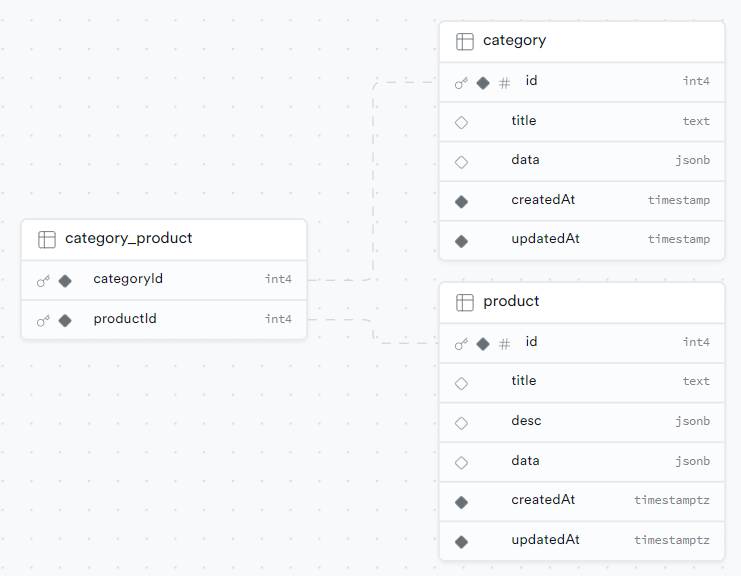
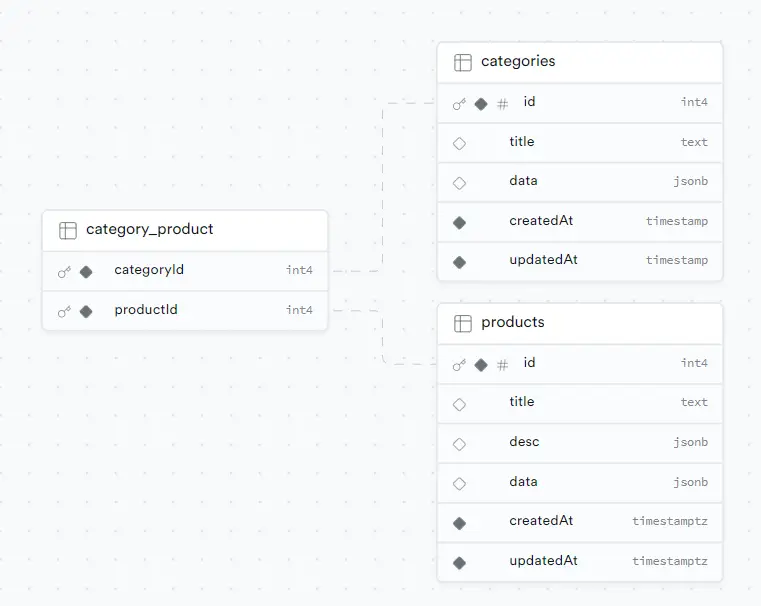
feat(ac): add Supabase integration, data model

diff --git a/docs/.vitepress/config/sidebar.arty-crafty.ru.ts b/docs/.vitepress/config/sidebar.arty-crafty.ru.ts
@@ -46,24 +46,25 @@ export default [
           { text: "Codeium", link: "/ru/arty-crafty/showcase/codeium" },
         ],
       },
-      // {
-      //   text: "Бэкенд и база данных",
-      //   collapsed: false,
-      //   items: [
-      //     { text: "Выбор BaaS", link: "/ru/arty-crafty/backend/baas-choosing" },
-      //     { text: "Supabase", link: "/ru/arty-crafty/backend/supabase" },
-      //     { text: "Модель данных", link: "/ru/arty-crafty/backend/db-data-model" },
-      //     { text: "Supabase API", link: "/ru/arty-crafty/backend/supabase-api" },
-      //     { text: "Hoppscotch", link: "/ru/arty-crafty/backend/hoppscotch" },
-      //   ],
-      // },
-      // {
-      //   text: "Витрина -  данные",
-      //   collapsed: false,
-      //   items: [
-      //     { text: "API сервис адаптер", link: "/ru/arty-crafty/showcase-data/api-service-adapter" },
-      //   ],
-      // },
+      {
+        text: "Бэкенд и база данных",
+        collapsed: false,
+        items: [
+          { text: "Выбор BaaS", link: "/ru/arty-crafty/backend/baas-choosing" },
+          { text: "Supabase", link: "/ru/arty-crafty/backend/supabase" },
+          { text: "Модель данных", link: "/ru/arty-crafty/backend/db-data-model" },
+          { text: "Supabase API", link: "/ru/arty-crafty/backend/supabase-api" },
+          { text: "Hoppscotch", link: "/ru/arty-crafty/backend/hoppscotch" },
+        ],
+      },
+      {
+        text: "Витрина -  данные",
+        collapsed: false,
+        items: [
+          { text: "API сервис адаптер", link: "/ru/arty-crafty/showcase-data/api-service-adapter" },
+          { text: "Мобильное меню, CSS", link: "/ru/arty-crafty/showcase-data/mobile-menu" },
+        ],
+      },
     ],
   },
 ];

diff --git a/docs/ru/arty-crafty/backend/db-data-model.md b/docs/ru/arty-crafty/backend/db-data-model.md
@@ -16,7 +16,7 @@ head:
 
 ## Сущности
 
-На данный момент у нас есть сущности `product` и `category`. Отношение между ними - **many-to-many**. Один продукт может находиться в нескольких категориях (с учетом того, что конкретный магазин маркетплейса тоже можно рассматривать как категорию).
+На данный момент у нас есть сущности `products` и `categories`. Отношение между ними - **many-to-many**. Один продукт может находиться в нескольких категориях (с учетом того, что конкретный магазин маркетплейса тоже можно рассматривать как категорию).
 
 В реляционных базах данных такие отношения делаются отдельной таблицей, которая хранит связи между товарами и категориями.
 
@@ -26,11 +26,11 @@ head:
 
 Исторически название полей в реляционных базах данных должно быть `snake_case`, но современные БД хорошо различают регистр, и поэтому удобно именовать поля так же, как они будут в JavaScript на фронтенде - тогда можно избежать преобразования имен туда-обратно, что зачастую может вылиться в очень немаленький бойлерплейт на бэкенде.
 
-#### Category table
+#### Categories table
 
 ![image](/ru/arty-crafty/assets/images/db-categories-data.webp)
 
-#### Product table
+#### Products table
 
 ![image](/ru/arty-crafty/assets/images/db-products-data.webp)
 
@@ -40,10 +40,10 @@ head:
 
 В классических реляционных базах данных все данные находились в таблицах, большинство полей (колонок таблиц) было либо числом, либо строкой, либо timestamp. Соответственно, для firstName пользователя было своё поле, для lastName - своё. В итоге у Magento, например, свыше 200 таблиц в минимальной версии, и у некоторых таблиц могут быть десятки полей.
 
-JSON поля сильно упрощают работу с данными и таблицами. В нашем случае у `product` есть два json поля - `desc` и `data`. В первом будут храниться данные, которые надо передать на фронтенд при запросе категории товаров (краткая информация по товарам), в `data` - уже полное описание товара для показа на странице товара, включая, например, отзывы пользователей. `data` будет намного больше по объему, чем `desc`. Это позволит делать запросы на бэкенд эффективно.
+JSON поля сильно упрощают работу с данными и таблицами. В нашем случае у `products` есть два json поля - `desc` и `data`. В первом будут храниться данные, которые надо передать на фронтенд при запросе категории товаров (краткая информация по товарам), в `data` - уже полное описание товара для показа на странице товара, включая, например, отзывы пользователей. `data` будет намного больше по объему, чем `desc`. Это позволит делать запросы на бэкенд эффективно.
 
 ## Поиск по json полям
 
 Одно из преимуществ реляционных баз данных - индексация полей и быстрый поиск по ним даже с десятками миллионов записей в таблице.
 
-У нас есть форма поиска на сайте, мы захотим искать по полному описанию товара, который находится в `data` поле таблицы `product`. Это тоже возможно, потому что MySQL, например, по каждому параметру внутри json поля, по которому должен быть поиск, создает дополнительное виртуальное поле в этой таблице, и индексирует его для оптимизации поиска или join-ов. Postgres наверняка делает примерно то же самое.
+У нас есть форма поиска на сайте, мы, естественно, захотим искать по полному описанию товара, который находится в поле `data` таблицы `products`. Это тоже возможно, потому что MySQL, например, по каждому параметру внутри `json` поля, по которому должен быть поиск, создает дополнительное виртуальное поле в этой таблице, и индексирует его для оптимизации поиска или join-ов. Postgres наверняка делает примерно то же самое. Таким образом, хранение данных в json полях не ограничивает функционал реляционных баз данных.

diff --git a/docs/ru/arty-crafty/showcase-data/mobile-menu.md b/docs/ru/arty-crafty/showcase-data/mobile-menu.md
@@ -1,0 +1,39 @@
+---
+pageClass: arty-crafty
+head:
+  - - meta
+    - name: og:site_name
+      content: Arty-Crafty - проект онлайн магазина
+  - - meta
+    - name: og:image
+      content: /images/arty-crafty-logo.png
+  - - meta
+    - name: twitter:image
+      content: /images/arty-crafty-logo.png
+---
+
+# Мобильное меню, CSS
+
+## IconButton
+
+В мобильном виде обычно на подобных сайтах есть нижнее меню. Кнопки с иконками тут сильно похожи на те, что используются в главном хедере, значит пора выделить их в отдельный компонент `BaseIconButton`. При создании базовых UI компонент есть искушение сделать его как можно универсальней, со множеством опций, но лучше делать самое необходимое с возможностью расширения позже. В нашем случае добавим только badge.
+
+![image](/ru/arty-crafty/assets/images/mobile-menu.webp)
+
+Заменяем в `AppHeader` кнопки на `BaseIconButton`.
+
+## SCSS => CSS
+
+От SCSS мы используем только nesting (вкладывание селекторов друг в друга). Эта удобная фунциональность уже часть современного CSS, поддерживается последними версиями всех браузеров, но общая поддержка около 90%. Через полгода-год уже должна быть достаточная поддержка браузерами, чтобы мы использовали чистый CSS.
+
+Перейдем на него уже сейчас, и будем использовать `postcss-nesting` пакет для преобразования CSS с nesting в простой CSS. Это позволит в будущем просто убрать этот пакет из проекта, не меняя код. В противном случае при переходе надо будет немного править каждый блок SCSS в каждом SFC.
+
+Итак, убираем из зависимостей пакет `sass`, добавляем `postcss-nesting`, в каждом SFC файле убираем `lang="scss"`, и заменяем двуслешные `// ...` комментарии SCSS на `/* ... */` комментарии CSS. Всё работает.
+
+Есть небольшая терпимая проблема с подсветкой CSS с nesting в VS Code, но есть и "плюс" - теперь по селектору из блока стилей можно по SHIFT+F12 попасть в нужное место в шаблоне. С SCSS это было нельзя.
+
+## Tag и CMV
+
+Загружаем в репозиторий и ставим тэг - [`v0.4`](https://github.com/vuesence/arty-crafty/tree/v0.4)
+
+[Coding music video](https://youtu.be/Z1o7BgNuHDg)

diff --git a/docs/ru/arty-crafty/backend/supabase-api.md b/docs/ru/arty-crafty/backend/supabase-api.md
@@ -31,18 +31,18 @@ import { createClient } from "@supabase/supabase-js";
 const supabase = createClient("https://client_id.supabase.co", "public-anon-key");
 
 const { data: product, error } = await supabase
-  .from("product")
+  .from("products")
   .select("*");
 
 const { data, error } = await supabase
-  .from("product")
+  .from("products")
   .insert([
     { some_column: "someValue", other_column: "otherValue" },
   ])
   .select();
 
 const { error } = await supabase
-  .from("product")
+  .from("products")
   .delete()
   .eq("some_column", "someValue");
 ```
@@ -52,20 +52,24 @@ const { error } = await supabase
 Либо напрямую через HTTP запросы:
 
 ```sh
-curl 'https://client_id.supabase.co/rest/v1/product?select=*' \
+curl 'https://client_id.supabase.co/rest/v1/products?select=*' \
 -H "apikey: SUPABASE_CLIENT_ANON_KEY" \
 -H "Authorization: Bearer SUPABASE_CLIENT_ANON_KEY"
 
-curl -X POST 'https://client_id.supabase.co/rest/v1/product' \
+curl -X POST 'https://client_id.supabase.co/rest/v1/products' \
 -H "apikey: SUPABASE_CLIENT_ANON_KEY" \
 -H "Authorization: Bearer SUPABASE_CLIENT_ANON_KEY" \
 -H "Content-Type: application/json" \
 -H "Prefer: return=minimal" \
 -d '{ "some_column": "someValue", "other_column": "otherValue" }'
 
-curl -X DELETE 'https://client_id.supabase.co/rest/v1/product?some_column=eq.someValue' \
+curl -X DELETE 'https://client_id.supabase.co/rest/v1/products?some_column=eq.someValue' \
 -H "apikey: SUPABASE_CLIENT_ANON_KEY" \
 -H "Authorization: Bearer SUPABASE_CLIENT_ANON_KEY"
 ```
 
 Мы будем использовать второй способ, - опять же, чтобы не внедрять необязательные зависимости. Плюс, дебажить явные HTTP запросы намного проще.
+
+Доступ через REST API использует библиотеку [PostgREST](https://postgrest.org), написанную на `Haskell`. На её сайте можно ознакомиться с богатым синтаксисом возможных запросов.
+
+Таким образом, на данный момент мы используем Postgres базу данных и PostgREST библиотеку/сервер. От самой Supabase пока что только удобная админка для управления БД.

diff --git a/docs/ru/arty-crafty/backend/hoppscotch.md b/docs/ru/arty-crafty/backend/hoppscotch.md
@@ -21,3 +21,32 @@ head:
 Одной из удобных альтернатив является `Hopscotch`, в девичестве - `Postwoman`. Он работает из браузера или как PWA приложение, имеет весь необходимый нам функционал и написан на Vue.
 
 ![image](/ru/arty-crafty/assets/images/hoppscotch.webp)
+
+## Endpoints
+
+Нам нужны три эндпойнта на текущем этапе:
+
+- список всех категорий
+- список товаров в определенной категории
+- подробная информация о товаре
+
+Создадим соответствующие запросы в Hoppscotch:
+
+```sh
+curl --request GET \
+  --url 'https://client_id.supabase.co/rest/v1/categories?select=*' \
+  --header 'Authorization: Bearer $apiKey$' \
+  --header 'apikey: $apiKey$'
+
+curl --request GET \
+  --url 'https://client_id.supabase.co/rest/v1/categories?select=id,title,product(id,title,desc)&id=eq.2' \
+  --header 'Authorization: Bearer $apiKey$' \
+  --header 'apikey: $apiKey$'
+
+curl --request GET \
+  --url 'https://client_id.supabase.co/rest/v1/products?select=id,title,desc,data&id=eq.2' \
+  --header 'Authorization: Bearer $apiKey$' \
+  --header 'apikey: $apiKey$'
+```
+
+Второй запрос - это `LEFT JOIN` на таблицах `categories` и `products`. К сожалению документация Supabase не очень детально описывает join-ы, пришлось поэкспериментировать.

diff --git a/docs/ru/arty-crafty/showcase-data/api-service-adapter.md b/docs/ru/arty-crafty/showcase-data/api-service-adapter.md
@@ -1,0 +1,32 @@
+---
+pageClass: arty-crafty
+head:
+  - - meta
+    - name: og:site_name
+      content: Arty-Crafty - проект онлайн магазина
+  - - meta
+    - name: og:image
+      content: /images/arty-crafty-logo.png
+  - - meta
+    - name: twitter:image
+      content: /images/arty-crafty-logo.png
+---
+
+# Работа с API на фронтенде
+
+## Supabase адаптер
+
+Теперь нужно реализовать такие же как в Hoppscotch запросы в коде нашего фронтенда. Для товаров категории и подробная информации о товаре это можно сделать сразу, заменив всего одну строку:
+
+```js
+const products = {
+  async categoryProducts(categoryId) {
+    // return http.get(`/arty-crafty/api/category-products-${categoryId}.json`);
+    const data = await http.get(`https://client_id.supabase.co/rest/v1/categories?select=id,title,products(id,title,desc)&id=eq.${categoryId}`);
+    return data[0].products;
+  },
+};
+```
+
+В `ProductCard` проставляем корректные пути к свойствам товара (`product.desc.price`) и категория показывается.
+Теперь нужно загрузить в самом начале старта приложения все категории товаров, чтобы построить каталог. Сделать это надо до

diff --git a/docs/ru/arty-crafty/showcase/codeium.md b/docs/ru/arty-crafty/showcase/codeium.md
@@ -59,6 +59,10 @@ function listFavourites(): Array<number> {
 
 > This code defines a function called listFavourites that returns a list of favorite product IDs. The function uses the Array.from method to convert the favourites.value array-like object into a proper array. The function has a return type annotation of Array\<number\>, indicating that it returns an array of numbers.
 
+## Explain problem
+
+При подчеркивании ошибки ESlint-ом Codeium часто предлагает опцию `Explain problem`, в которой будет не только объяснение ошибки, но и генерация "правильного" кода. С ошибками TypeScript работает очень неплохо.
+
 ## Вывод
 
 Codeium - не панацея, если не умеешь программировать, но экономит много времени, если что-то умеешь.
